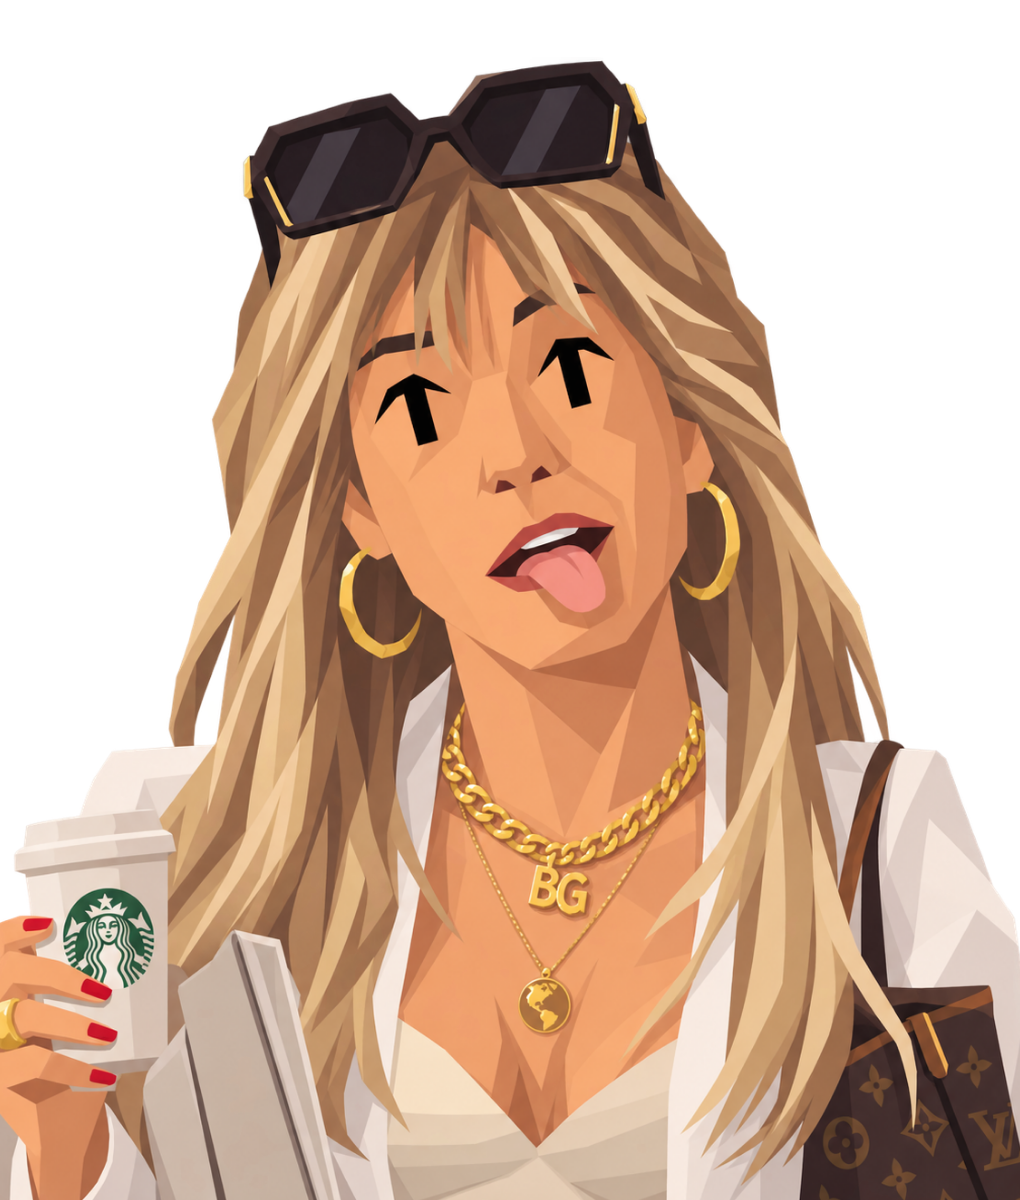
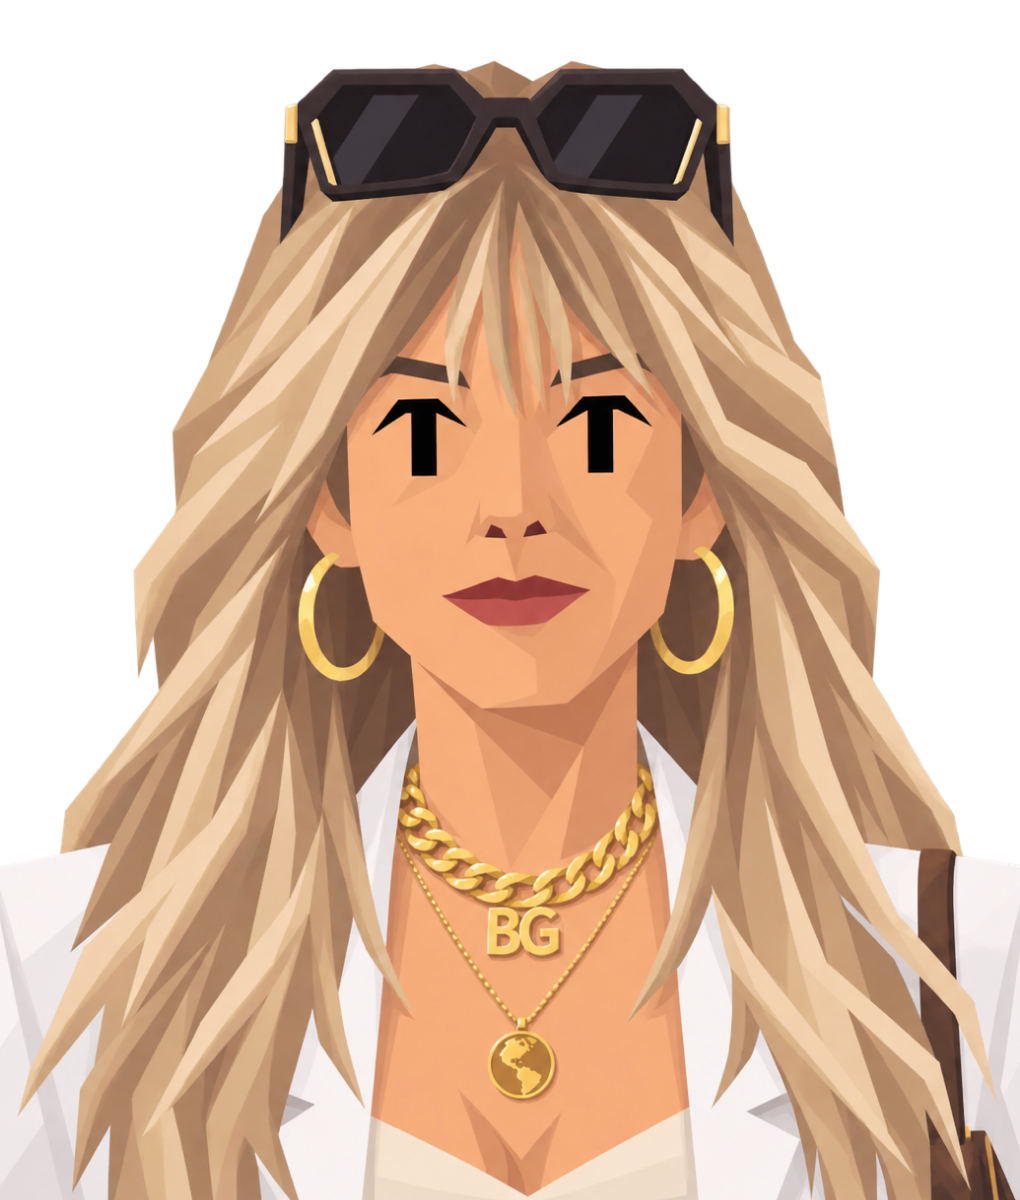
El botón de reiniciar ya no se sale de la pantalla de fin
El panel de fin tenía overflow:hidden junto a justifyContent:center, así que
cuando el texto no cabía se recortaba por ARRIBA Y POR ABAJO a la vez y el
botón "Nueva legislatura" desaparecía. Medido con los 64 epílogos del juego:

                      antes           ahora
  412x915 (movil)     0 de 64 mal     0 de 64
  360x640 (bajo)     54 de 64 mal     0 de 64
  1366x720 (PC)       7 de 64 mal     0 de 64

El arreglo es centrar con `margin:auto` en un envoltorio en vez de con
justifyContent, y poner overflowY:auto: así se centra cuando sobra sitio y se
puede desplazar cuando falta, en lugar de cortar. De paso se aprietan un poco
los márgenes y tipos del panel para que quepa sin necesidad de desplazar.

Incluye también el retrato nuevo de La Primera Dama, re-encuadrado al lienzo
común (venía a 1312x1199).

diff --git a/src/App.tsx b/src/App.tsx
@@ -105,38 +105,46 @@ export default function App() {
                     style={{
                       flex: 1,
                       minHeight: 0,
-                      margin: '16px 24px',
+                      margin: '12px 10px',
                       background: '#1c1c1e',
                       borderRadius: 16,
-                      padding: 24,
+                      padding: '16px 18px',
                       display: 'flex',
                       flexDirection: 'column',
-                      justifyContent: 'center',
                       alignItems: 'center',
                       textAlign: 'center',
                       color: '#f2f2f2',
-                      overflow: 'hidden',
+                      // Scroll en vez de recorte, y centrado con `margin:auto`
+                      // en el contenido en lugar de `justifyContent:center`:
+                      // con center + overflow, cuando el contenido no cabe se
+                      // corta por ARRIBA Y POR ABAJO y el botón de reiniciar
+                      // desaparecía (medido: en 360x640 pasaba con 54 de los
+                      // 64 epílogos). Con `margin:auto` se centra si sobra
+                      // sitio y se puede desplazar si falta.
+                      overflowY: 'auto',
                     }}
                   >
+                    <div style={{ margin: 'auto 0', width: '100%' }}>
                     <h2
                       style={{
                         color: '#ff4d4d',
-                        marginBottom: 16,
+                        marginBottom: 12,
+                        marginTop: 0,
                         fontFamily: 'var(--font-pixel)',
                         fontWeight: 400,
-                        fontSize: 30,
-                        lineHeight: 1.35,
+                        fontSize: 27,
+                        lineHeight: 1.3,
                       }}
                     >
                       Fin del gobierno
                     </h2>
                     <p
                       style={{
-                        lineHeight: 1.5,
-                        marginBottom: 24,
+                        lineHeight: 1.45,
+                        margin: '0 0 16px',
                         fontFamily: 'var(--font-pixel)',
                         fontWeight: 500,
-                        fontSize: 21,
+                        fontSize: 19,
                       }}
                     >
                       {deathReason}
@@ -150,7 +158,8 @@ export default function App() {
                           display: 'flex',
                           alignItems: 'center',
                           gap: 10,
-                          marginBottom: 18,
+                          margin: '0 auto 14px',
+                          width: 'fit-content',
                           padding: '8px 14px',
                           borderRadius: 10,
                           background: 'rgba(255,77,77,0.12)',
@@ -174,9 +183,9 @@ export default function App() {
                     <p
                       style={{
                         color: '#888',
-                        fontSize: 18,
-                        lineHeight: 1.5,
-                        marginBottom: 24,
+                        fontSize: 16,
+                        lineHeight: 1.4,
+                        margin: '0 0 18px',
                         fontFamily: 'var(--font-pixel)',
                         fontWeight: 500,
                       }}
@@ -199,6 +208,7 @@ export default function App() {
                     >
                       Nueva legislatura
                     </button>
+                    </div>
                   </motion.div>
                 )}
               </div>
